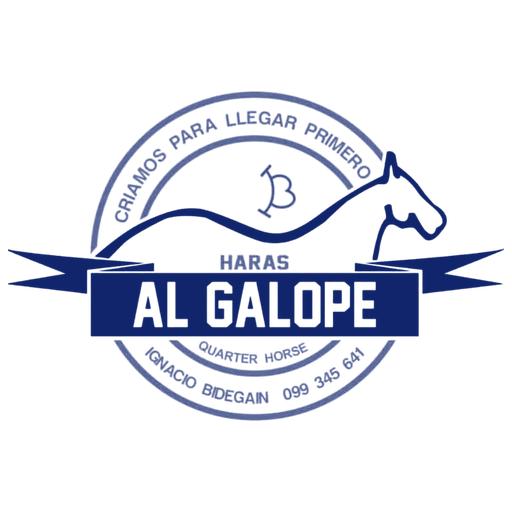
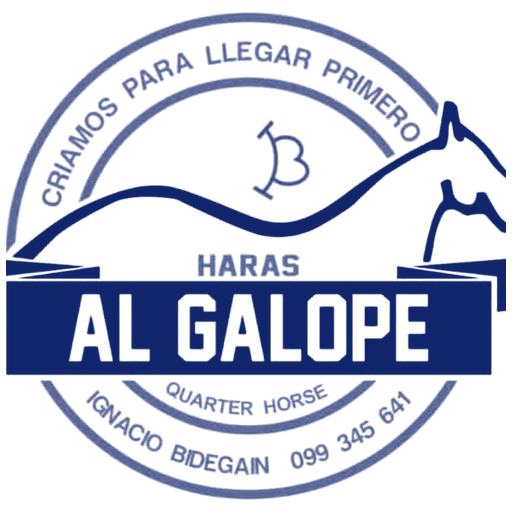
Agranda el ícono y pone la ubicación real del haras
El ícono se veía chico y el motivo no era el tamaño del archivo: el logo es
apaisado (900x598) metido en un lienzo cuadrado, así que al ajustarlo por el
ancho la tinta ocupaba apenas el 66% del alto y quedaban dos bandas vacías.

Se recorta al escudo circular, sin las puntas de las alas, que es donde vive
el 90% de la tinta y da una franja casi cuadrada. Ahora ocupa el 95% del
alto: a 48 px ya se lee "AL GALOPE".

Mapa: las coordenadas pasan a -34.6085, -56.5179 con zoom 13, sacadas del
enlace de Google Maps del cliente. Las que había estaban a unos 25 km.

diff --git a/admin/index.html b/admin/index.html
@@ -67,9 +67,29 @@ body{
   background: transparent;
 }
 
-/* El logo, con un halo suave para que no quede pegado sobre la foto. */
+/* En un celular acostado la pantalla de entrada no entra, y Sveltia la
+   recorta con overflow:hidden: los botones de iniciar sesión quedan abajo
+   del borde y no se puede llegar a ellos. Acá se deja bajar.
+   Sólo en la pantalla de entrada: adentro del editor no se toca nada. */
+.sui.app-shell:has(> .outer > .main > .container .inner > img.logo) > .outer > .main{
+  overflow-y: auto;
+}
+
+/* El logo, grande y con un halo suave para que no quede pegado sobre la foto.
+   Sveltia le fija 160px, que sobre una foto a pantalla completa queda perdido.
+   Se mide contra el alto de la ventana para que no se coma la pantalla en un
+   celular apaisado, y contra el ancho para que no se salga en uno angosto. */
 .container .inner > img.logo{
+  width: auto !important;
+  height: min(340px, 38vh) !important;
+  max-width: 84vw !important;
   filter: drop-shadow(0 10px 34px rgba(0,0,0,.55));
+}
+
+/* Pantalla baja (celular acostado): el logo cede lugar para que los botones
+   de iniciar sesión entren sin tener que bajar. */
+@media (max-height: 560px){
+  .container .inner > img.logo{ height: min(150px, 30vh) !important }
 }
 
 /* Los textos de la pantalla de entrada van sobre foto: hay que aclararlos,

diff --git a/README.md b/README.md
@@ -123,7 +123,6 @@ Desde el panel es el campo "Encuadre". A mano, es `pos` en `galeria.json` y
       puedo reconocer: decime qué foto es cada uno y las cargo.
 - [ ] Email propio del haras
 - [ ] Facebook (Instagram ya está cargado)
-- [ ] Dirección exacta y coordenadas del establecimiento (ver abajo)
 - [ ] Fichas de los padrillos Fuego Fling Fame, Jess Bikini JNN y Breeze Winner
 - [ ] La historia real del haras en la sección "El Haras" (`index.html`)
 - [ ] Una foto mejor de Jess Bikini JNN — la que hay es de 547×365, se ve blanda
